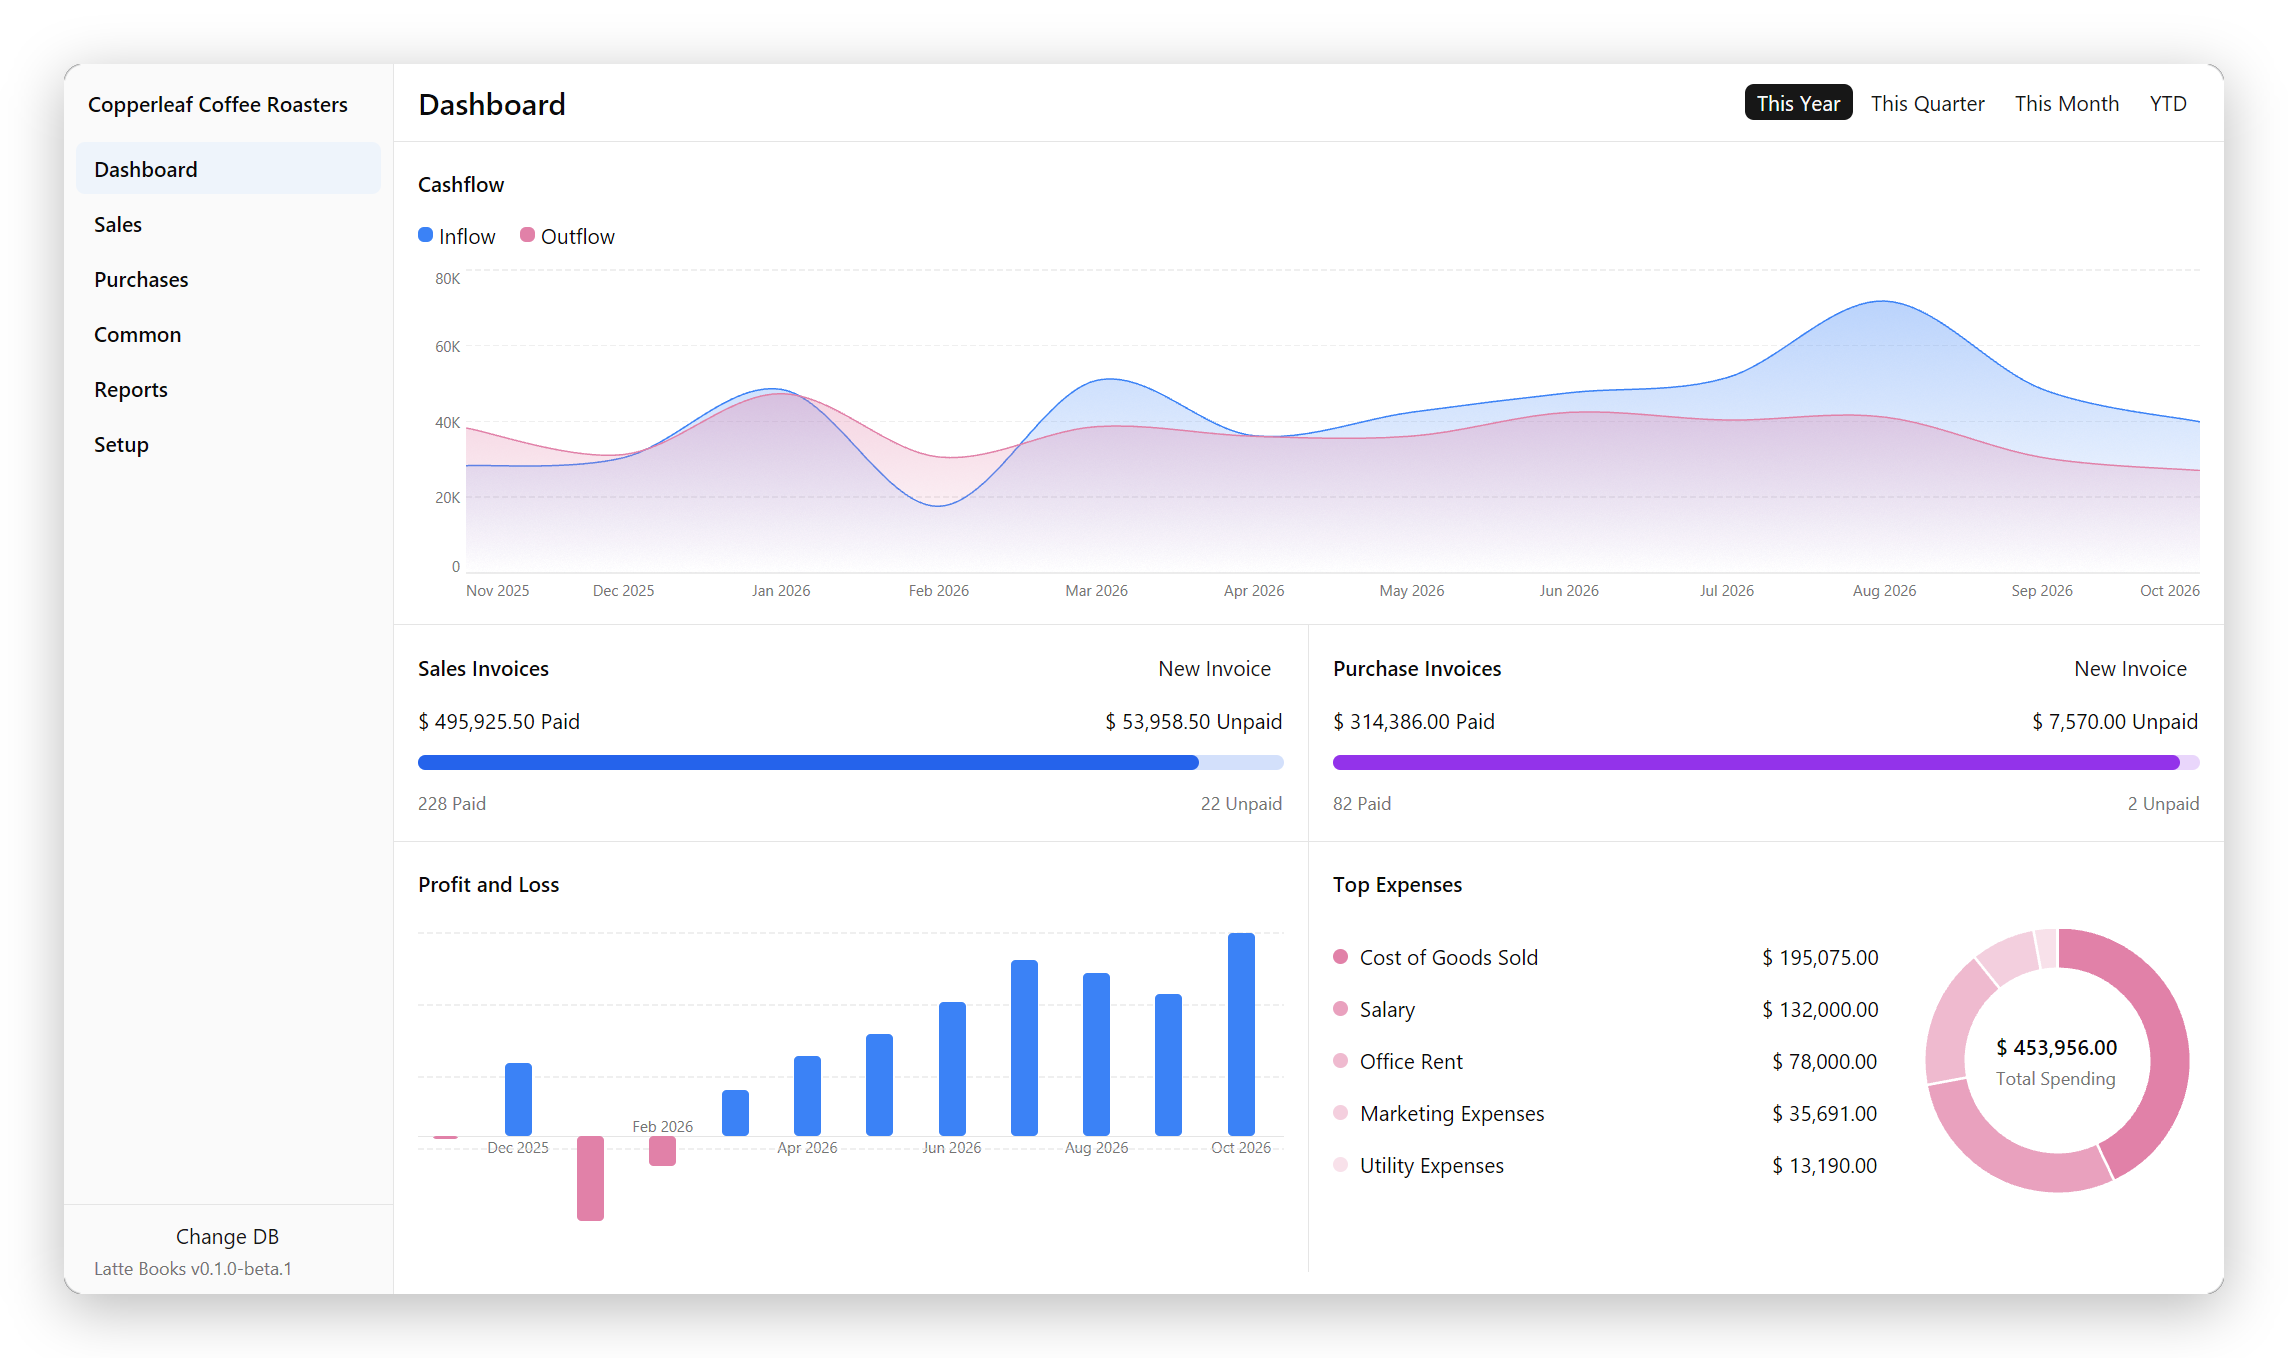
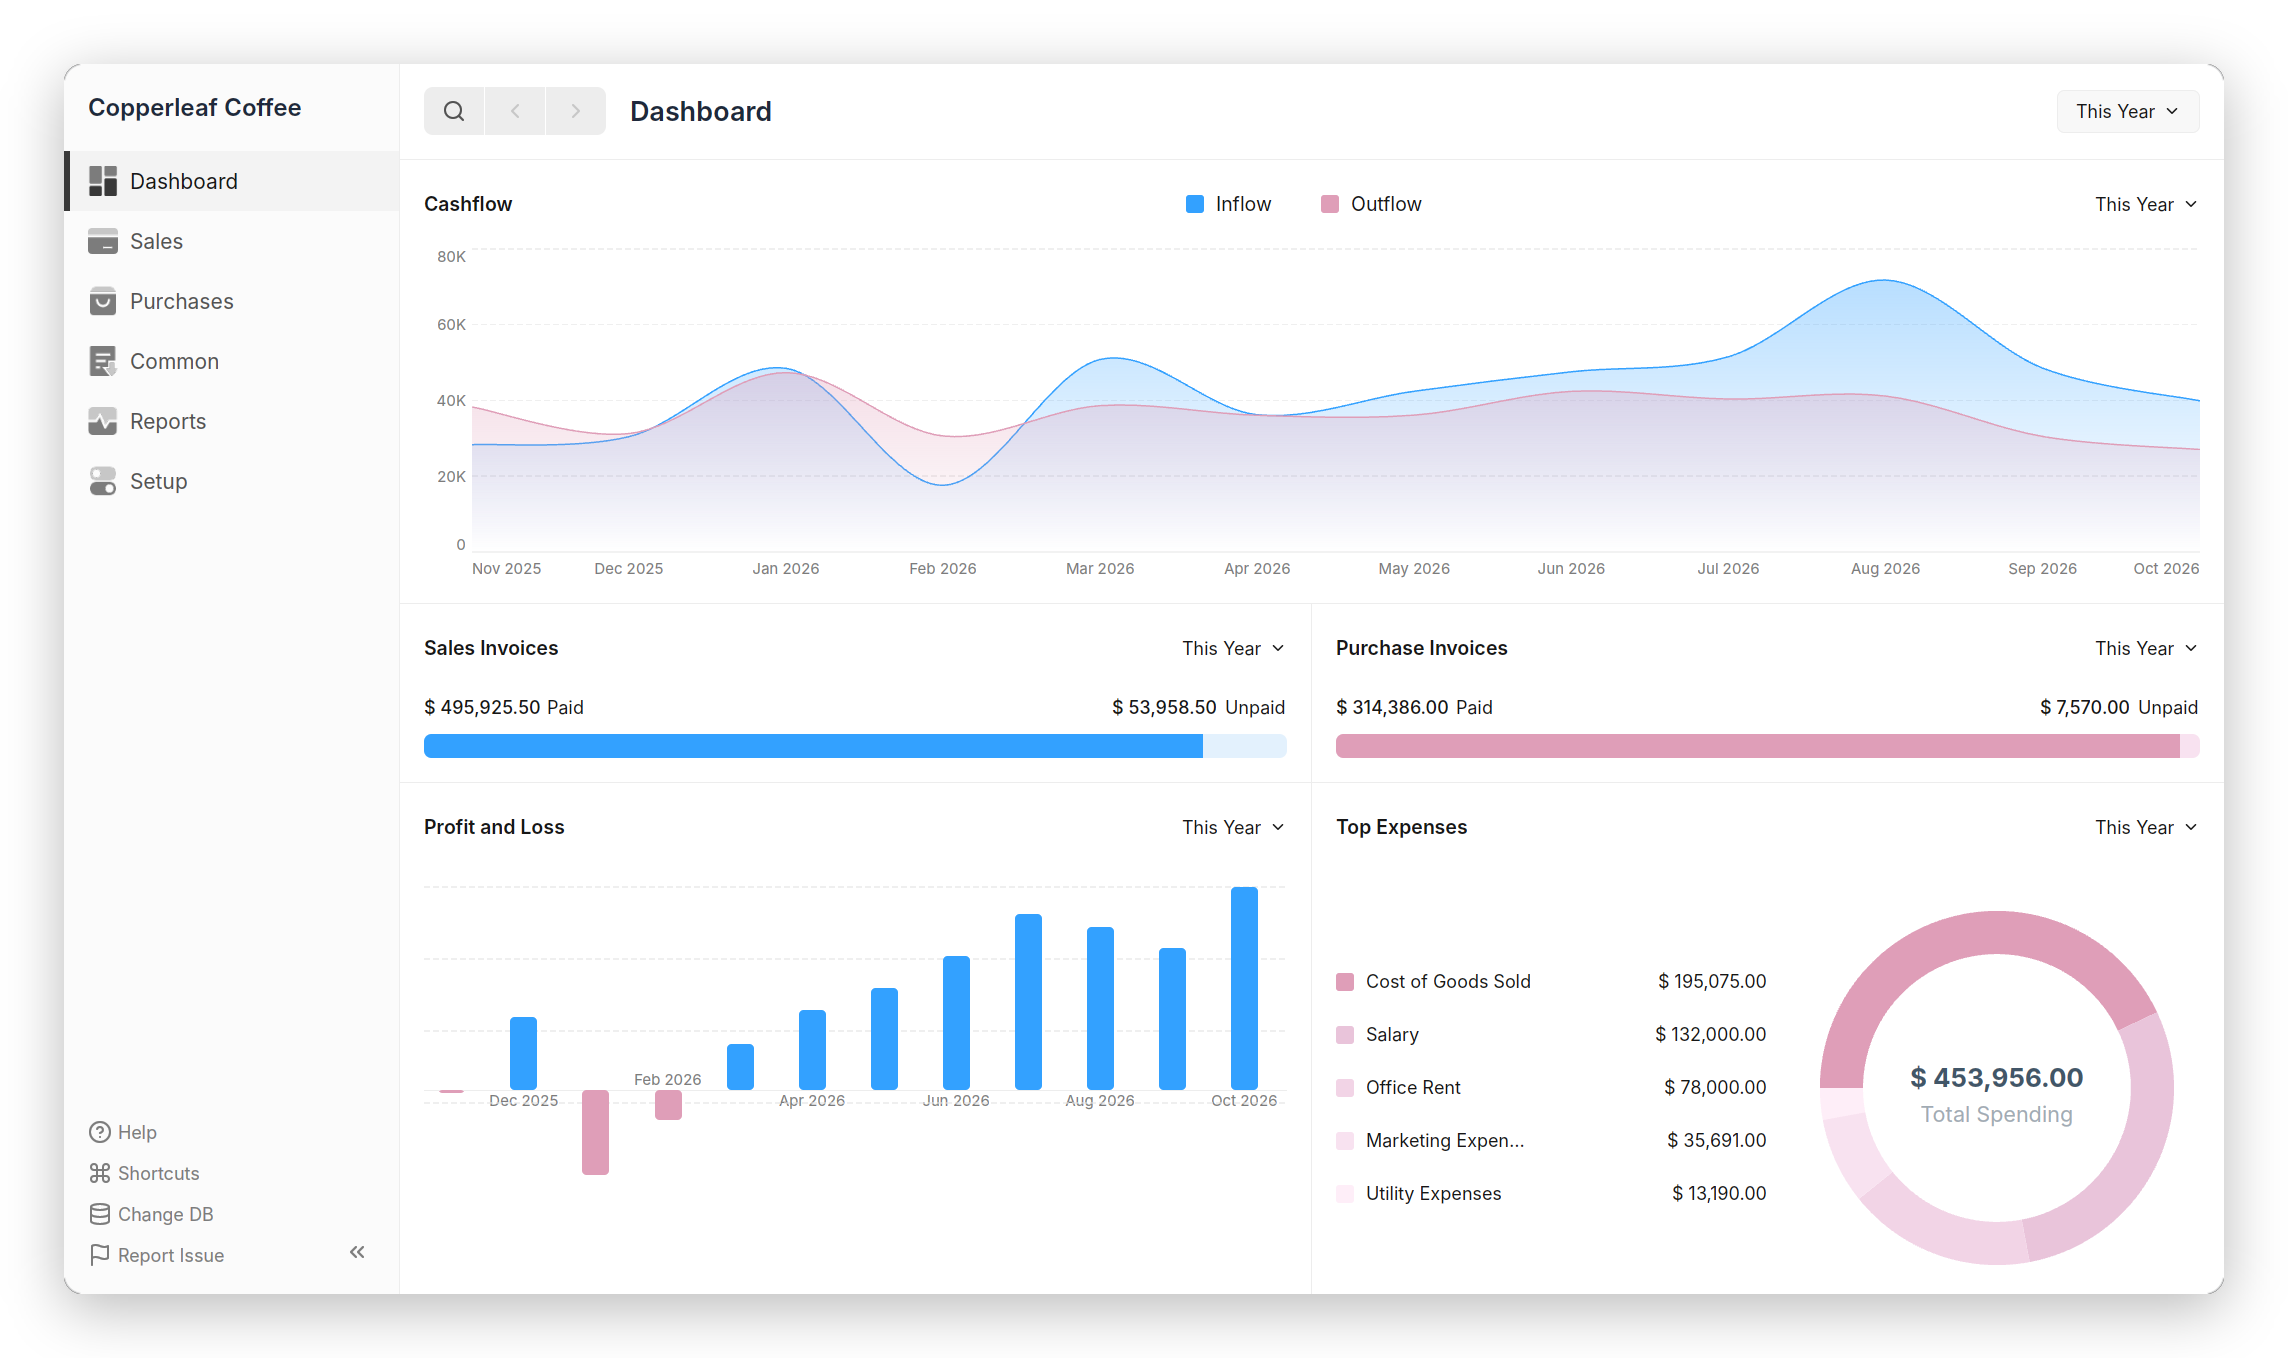
docs(readme): retake the dashboard screenshot with the new look (#7)
* feat(ui): look like Frappe Books: theme, sidebar, list and form

Draw the app in Frappe Books v0.36.0's look, from its Tailwind config and
Vue components:

- Inter, Books' gray palette, type scale and radii, as gpui-kit's theme
  and a books module the screens use.
- Books' Button, Badge and StatusPill, page header with Back and Forward,
  dialog, toast and dropdown.
- The sidebar with Books' icons, 40px rows, the marked active row and
  Help, Change DB and Report Issue.
- The list view's 48px rows, # column, equal columns and paginator.
- The form as a 600px card under a header that holds Print, the width
  toggle, the Create and "..." menus and Save or Submit; Books' inputs,
  Link selector, checkbox and child table; confirm dialogs, toasts, and
  errors under their field.
- Datetimes shown with seconds, as Books formats them.

Claude-Session: https://claude.ai/code/session_01NUDti1CoDB9kH5WxAYkERV

* feat(ui): dashboard and reports drawn as Books draws them

- Dashboard: a period on each chart and one in the header that sets them
  all ("Set Period" once a chart differs), Books' PeriodSelector menu,
  Books' blue and pink, the invoices' counts over their bar, and no New
  Invoice buttons.
- Reports: an Export menu, the filters as a five-column grid of labelled
  small controls, dates shown formatted with a calendar, 48px rows with
  fixed column widths, zeros in gray, group rows that fold, and pages for
  the ledgers and GST returns.
[…]

diff --git a/crates/latte-core/examples/screenshot_test.rs b/crates/latte-core/examples/screenshot_test.rs
@@ -1,4 +1,4 @@
-//! Makes the company the README's screenshot shows: Copperleaf Coffee Roasters, a made-up
+//! Makes the company the README's screenshot shows: Copperleaf Coffee, a made-up
 //! US coffee roaster with a year of growing wholesale sales, seasonal peaks, green coffee
 //! bought to match, rent, payroll and ads, and customers who pay 10 to 45 days later.
 //!
@@ -146,7 +146,7 @@ fn values<const N: usize>(pairs: [(&str, DocValue); N]) -> DocValueMap {
 fn run(path: &str) -> Result<()> {
     let today = today();
     let mut options = SetupWizardOptions::for_country("United States", today);
-    options.company_name = "Copperleaf Coffee Roasters".into();
+    options.company_name = "Copperleaf Coffee".into();
     options.fullname = "Maya Okafor".into();
     options.email = "maya@copperleaf.example".into();
     options.bank_name = BANK.into();
